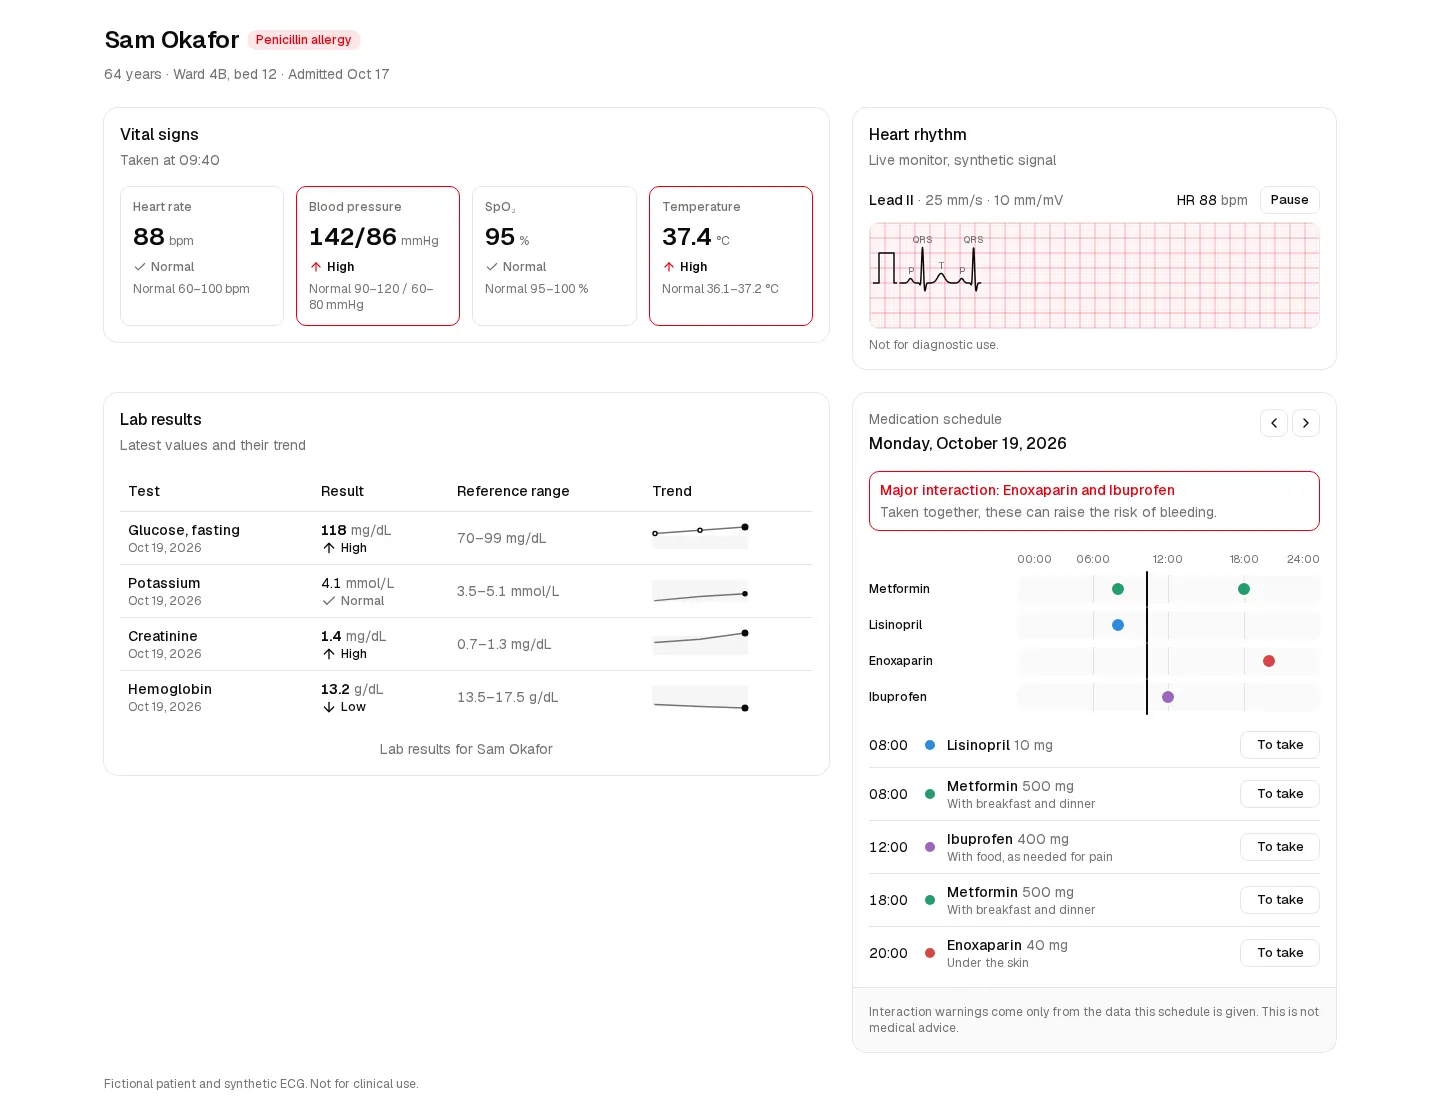
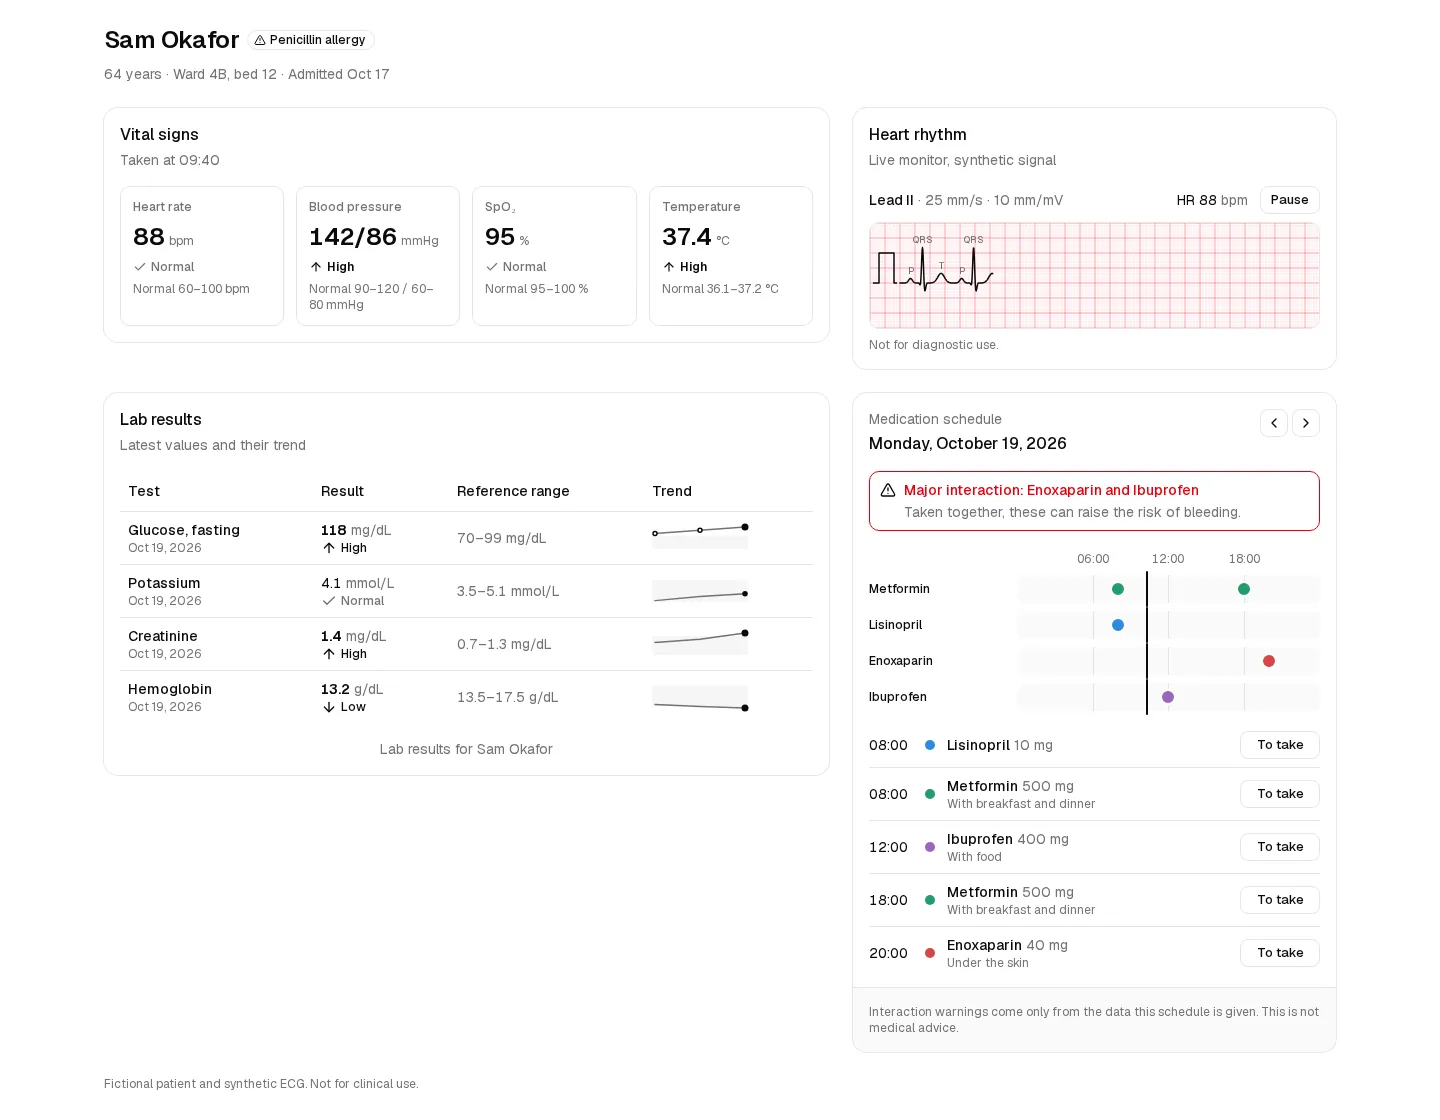
Show dashboard-01's alerts as outlined badges
The penicillin allergy badge used the destructive variant: red text at
4.0:1 on its tint, under WCAG AA's 4.5:1, and red where the library
keeps red for critical values. Alerts are now outlined badges with a
warning icon, as the patient banner shows them.

Claude-Session: https://claude.ai/code/session_018PVjk88Mz5J9xf3vF6fVuq

Changed region(s): [[0.5938, 0.4375, 0.8438, 0.4688], [0.1562, 0.0312, 0.25, 0.0625]]

diff --git a/packages/registry/registry/base-nova/blocks/dashboard-01/components/patient-dashboard.tsx b/packages/registry/registry/base-nova/blocks/dashboard-01/components/patient-dashboard.tsx
@@ -19,6 +19,7 @@ import {
   type MedicationInteraction,
 } from "@/components/ui/medication-schedule"
 import { VitalSigns, type VitalReadings } from "@/components/ui/vital-signs"
+import { IconPlaceholder } from "@/icons/icon-placeholder"
 
 export type Patient = {
   name: string
@@ -61,8 +62,18 @@ export function PatientDashboard({ patient }: { patient: Patient }) {
           <h1 className="text-2xl font-semibold tracking-tight">
             {patient.name}
           </h1>
+          {/* Outlined with an icon: red is kept for critical values. */}
           {patient.alerts?.map((alert) => (
-            <Badge key={alert} variant="destructive">
+            <Badge key={alert} variant="outline">
+              <IconPlaceholder
+                lucide="TriangleAlertIcon"
+                tabler="IconAlertTriangle"
+                hugeicons="Alert02Icon"
+                phosphor="WarningIcon"
+                remixicon="RiErrorWarningLine"
+                aria-hidden="true"
+                data-icon="inline-start"
+              />
               {alert}
             </Badge>
           ))}

diff --git a/.changeset/dashboard-01-alert-contrast.md b/.changeset/dashboard-01-alert-contrast.md
@@ -1,0 +1,5 @@
+---
+"@workspace/registry": patch
+---
+
+`dashboard-01` shows its alerts, such as an allergy, as outlined badges with a warning icon. The red badge fell below WCAG AA contrast, and red is kept for critical values.
